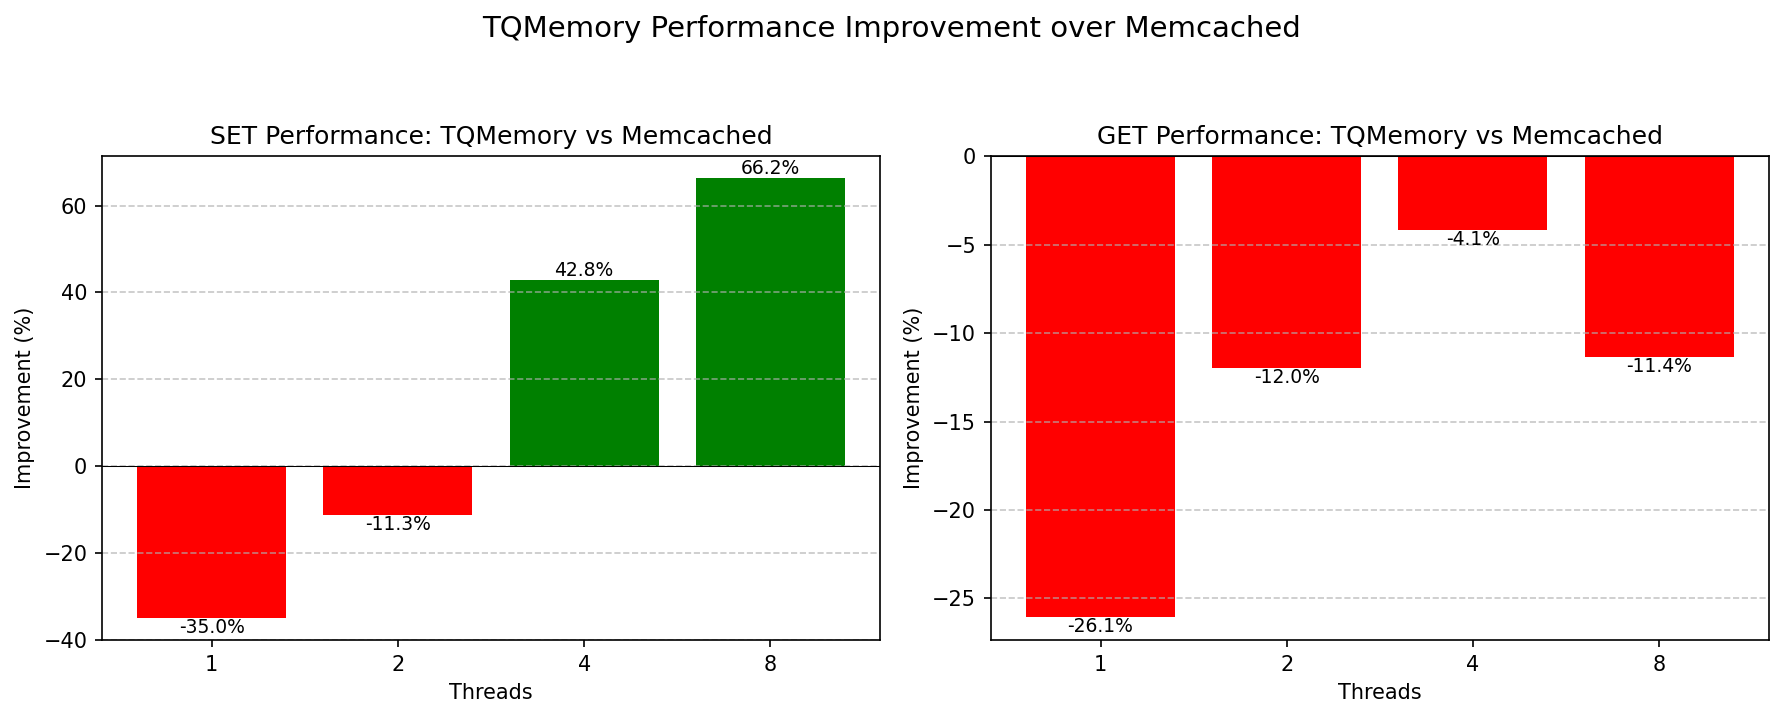
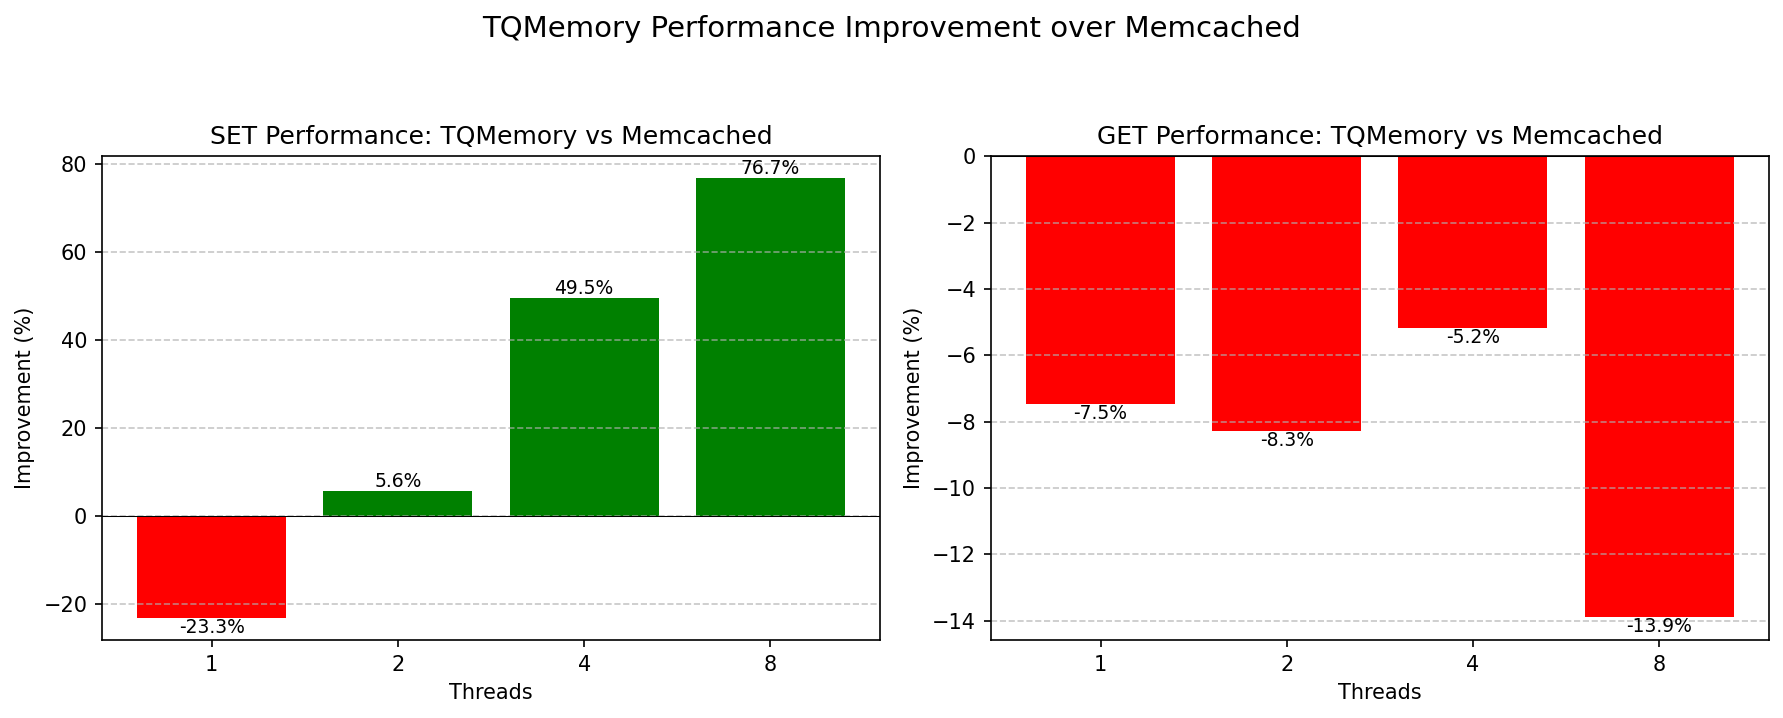
update

diff --git a/pkg/server/binary.go b/pkg/server/binary.go
@@ -8,9 +8,34 @@ import (
 	"net"
 	"os"
 	"strconv"
+	"sync"
 	"time"
 
 	"github.com/mevdschee/tqmemory/pkg/tqmemory"
+)
+
+// Pools for frequently allocated buffers
+var (
+	// Pool for 4-byte extras buffer (used in GET responses)
+	extrasPool = sync.Pool{
+		New: func() interface{} {
+			return make([]byte, 4)
+		},
+	}
+
+	// Pool for small body buffers (up to 1KB - covers most keys)
+	smallBodyPool = sync.Pool{
+		New: func() interface{} {
+			return make([]byte, 1024)
+		},
+	}
+
+	// Pool for medium body buffers (up to 64KB)
+	mediumBodyPool = sync.Pool{
+		New: func() interface{} {
+			return make([]byte, 65536)
+		},
+	}
 )
 
 const (
@@ -90,9 +115,26 @@ func (s *Server) handleBinary(conn net.Conn, reader *bufio.Reader, writer *bufio
 			CAS:      binary.BigEndian.Uint64(headerBuf[16:24]),
 		}
 
-		bodyBuf := make([]byte, req.BodyLen)
+		// Use pooled body buffer based on size
+		var bodyBuf []byte
+		var poolToReturn *sync.Pool
+		bodyLen := int(req.BodyLen)
+
+		if bodyLen <= 1024 {
+			bodyBuf = smallBodyPool.Get().([]byte)[:bodyLen]
+			poolToReturn = &smallBodyPool
+		} else if bodyLen <= 65536 {
+			bodyBuf = mediumBodyPool.Get().([]byte)[:bodyLen]
+			poolToReturn = &mediumBodyPool
+		} else {
+			bodyBuf = make([]byte, bodyLen)
+		}
+
 		if _, err := io.ReadFull(reader, bodyBuf); err != nil {
 			log.Printf("Binary read body error: %v", err)
+			if poolToReturn != nil {
+				poolToReturn.Put(bodyBuf[:cap(bodyBuf)])
+			}
 			return
 		}
 
@@ -126,6 +168,9 @@ func (s *Server) handleBinary(conn net.Conn, reader *bufio.Reader, writer *bufio
 		case opVersion:
 			s.handleBinaryVersion(writer, req)
 		case opQuit:
+			if poolToReturn != nil {
+				poolToReturn.Put(bodyBuf[:cap(bodyBuf)])
+			}
 			return
 		case opNoop:
 			s.sendBinaryResponse(writer, req, resSuccess, nil, nil, nil, 0)
@@ -144,6 +189,11 @@ func (s *Server) handleBinary(conn net.Conn, reader *bufio.Reader, writer *bufio
 		default:
 			log.Printf("Binary Unknown Opcode: 0x%02x", req.Opcode)
 			s.sendBinaryResponse(writer, req, resUnknownCmd, nil, nil, nil, 0)
+		}
+
+		// Return pooled buffer
+		if poolToReturn != nil {
+			poolToReturn.Put(bodyBuf[:cap(bodyBuf)])
 		}
 
 		if reader.Buffered() == 0 {
@@ -214,8 +264,11 @@ func (s *Server) handleBinaryGet(writer *bufio.Writer, req binaryHeader, key str
 		return
 	}
 
-	extras := make([]byte, 4)
+	// Use pooled extras buffer
+	extras := extrasPool.Get().([]byte)
+	extras[0], extras[1], extras[2], extras[3] = 0, 0, 0, 0 // Reset flags
 	s.sendBinaryResponse(writer, req, resSuccess, extras, nil, val, cas)
+	extrasPool.Put(extras)
 }
 
 func (s *Server) handleBinaryGetK(writer *bufio.Writer, req binaryHeader, key string, quiet bool) {
@@ -227,8 +280,11 @@ func (s *Server) handleBinaryGetK(writer *bufio.Writer, req binaryHeader, key st
 		s.sendBinaryResponse(writer, req, resKeyNotFound, nil, nil, nil, 0)
 		return
 	}
-	extras := make([]byte, 4)
+	// Use pooled extras buffer
+	extras := extrasPool.Get().([]byte)
+	extras[0], extras[1], extras[2], extras[3] = 0, 0, 0, 0
 	s.sendBinaryResponse(writer, req, resSuccess, extras, []byte(key), val, cas)
+	extrasPool.Put(extras)
 }
 
 func (s *Server) handleBinaryDelete(writer *bufio.Writer, req binaryHeader, key string) {

diff --git a/pkg/tqmemory/worker.go b/pkg/tqmemory/worker.go
@@ -64,7 +64,7 @@ func NewWorker(defaultTTL time.Duration, channelCapacity int, maxMemory int64) *
 	return &Worker{
 		index:      NewIndex(),
 		reqChan:    make(chan *Request, channelCapacity),
-		touchChan:  make(chan string, 10000), // Buffer for batched LRU touches
+		touchChan:  make(chan string, 10000),
 		stopChan:   make(chan struct{}),
 		casCounter: uint64(time.Now().UnixNano()),
 		DefaultTTL: defaultTTL,

diff --git a/OPTIMIZATIONS.md b/OPTIMIZATIONS.md
@@ -234,8 +234,44 @@ Key deduplication saves ~68 bytes per entry:
 
 ---
 
+## Unix Socket Support
+
+The server supports Unix sockets for lower-latency local connections:
+```bash
+./tqmemory -s /tmp/tqmemory.sock -m 1024
+```
+
+---
+
+## Attempted Optimizations (Not Used)
+
+### CPU Affinity / NUMA Pinning
+Tested pinning worker goroutines to specific CPU cores using `sched_setaffinity`. This **reduced performance** because:
+- Go's scheduler is designed to balance work efficiently across threads
+- Pinning prevents the scheduler from using idle CPUs when I/O waiting
+- For cache workloads with mixed read/write, flexibility is more important than locality
+
+### io_uring
+Tested using the Gain framework for io_uring networking. Results:
+- Small values (100 bytes): ~37K RPS - similar to standard
+- Large values (10KB+): Stalls due to buffering issues in Gain framework
+- Standard Go networking is already highly optimized for this workload
+
+---
+
+## Memory Pooling (Implemented)
+
+Uses `sync.Pool` to reduce allocations in the hot path:
+
+**Pooled buffers:**
+- **Extras buffer pool**: 4-byte buffers for GET response flags
+- **Small body pool**: Up to 1KB (covers most key-only requests like GET)
+- **Medium body pool**: Up to 64KB (covers most SET operations)
+
+Requests larger than 64KB still allocate fresh buffers.
+
+---
+
 ## Future Optimization Opportunities
 
-1. **io_uring**: Use Linux io_uring for more efficient network I/O
-2. **Memory pooling**: Pool frequently allocated objects (requests, responses)
-3. **NUMA awareness**: Bind workers to specific CPU cores for better cache locality
+1. **Zero-copy writes**: Use `net.Buffers` (writev) for large value responses
